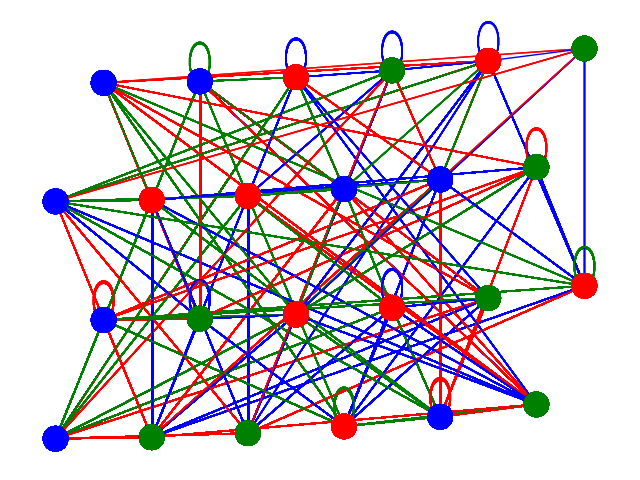
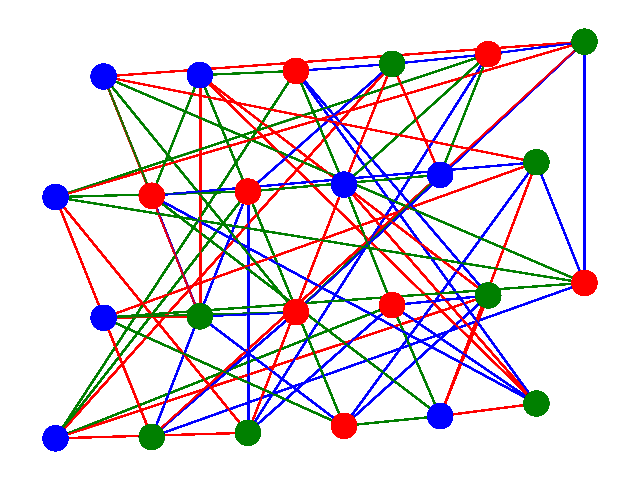
dualgraph generation works perfectly now, except for dual node position property

Changed region(s): [[0.0625, 0.0312, 0.9375, 0.9062], [0.1875, 0.9062, 0.2188, 0.9375]]

diff --git a/conceptTinkering/colorcode/hextorusdual.py b/conceptTinkering/colorcode/hextorusdual.py
@@ -6,6 +6,7 @@ from threecolorize import make_a_base_graph
 import numpy as np
 import random
 from typing import List, FrozenSet
+import time
 
 def triang_three_colored_graph(m,n):
     """
@@ -46,10 +47,12 @@ def draw_graph_with_colored_edges_and_nodes(G, file=None, name=None):
     plt.figure()
     if name:
         plt.title(name)
-    nx.draw(G, pos, with_labels=True, node_color=node_colors, edge_color=edge_colors)
+    if pos: 
+        nx.draw(G, pos, with_labels=True, node_color=node_colors, edge_color=edge_colors)
+    elif not pos:
+        nx.draw(G, with_labels=True, node_color=node_colors, edge_color=edge_colors)
     if nx.get_edge_attributes(G,"fault_ids"):
         nx.draw_networkx_edge_labels(G, pos, edge_labels=nx.get_edge_attributes(G, "fault_ids"))
-    
     if file:
         plt.savefig(file)
     else:
@@ -154,6 +157,7 @@ def find_face_color(graph: nx.Graph, face: FrozenSet) -> str:
             if node2 in graph.neighbors(node):
                 boundary_colors.add(graph[node][node2]['color'])
     face_color = rgb - boundary_colors
+    face_color = face_color.pop()
     return face_color
         
 
@@ -169,55 +173,40 @@ def dual_of_three_colored_graph(graph: nx.Graph) -> nx.Graph:
     # init nodes
     for i, face in enumerate(faces):
         dual_graph.add_node(i, color = 'black')
-        dual_graph.nodes[i]['color'] = find_face_color(graph,face)
-    # prepare node colors
-    node_colors = [data['color'] for _, data in dual_graph.nodes(data=True)] 
-    for i in range(len(node_colors)):
-        if node_colors[i]:
-            node_colors[i] = node_colors[i].pop()
+        color_of_face = find_face_color(graph, face)
+        dual_graph.nodes[i]['color'] = color_of_face
+        #### just to check things and visualize them
+        # for node in face:
+        #     graph.nodes[node]['color'] = color_of_face
+        # draw_graph_with_colored_edges_and_nodes(graph, "img/hexcolor/testloops.png")
+        # for node in face:
+        #     graph.nodes[node]['color'] = 'black'
     # connect nodes
     for i, face in enumerate(faces):
-        otherfaces = faces[:i]+faces[((i+1)%(len(faces))):]
+        otherfaces = faces[:i]+faces[((i+1)%(len(faces)+1)):]
         for j, face2 in enumerate(otherfaces):
             lap_nodes = set(face & face2)
-            print(lap_nodes)
+            # print(f"comparing face:\n {face} \n and face2: \n {face2}.\n The overlap is:\n{lap_nodes}")
             if lap_nodes:
                 # A three-colorable graph will only ever have two nodes between two faces
                 node1 = lap_nodes.pop()
                 node2 = lap_nodes.pop()
                 connecting_color = graph[node1][node2]['color']
-                dual_graph.add_edge(i,j, color = connecting_color)
+                # we are iterating not over the list of faces, but over the list of otherfaces
+                # what is j?
+                second_face_pos = [k for k in range(len(faces)) if faces[k] == otherfaces[j]].pop()
+                #
+                dual_graph.add_edge(i,second_face_pos, color = connecting_color)
                 
-                edge_colors = [dual_graph[u][v]['color'] for u, v in dual_graph.edges()]
-                nx.draw(dual_graph, pos = pos, node_color=node_colors, edge_color=edge_colors)
-                plt.savefig("img/hexcolor/bla.png")
-
-
+    
     return dual_graph
-
 
 def main():
     origG = make_a_base_graph()
-    # draw_graph_with_colored_edges_and_nodes(origG, "img/hexcolor/original.png")
+    draw_graph_with_colored_edges_and_nodes(triang_three_colored_graph(4,6), "img/hexcolor/triangshould.png")
     dual = dual_of_three_colored_graph(origG)
-    # draw_graph_with_colored_edges_and_nodes(dual, "img/hexcolor/dual.png")
-    # node_colors = [data['color'] for _, data in dual.nodes(data=True)] 
-    plt.figure()
-    pos = nx.spring_layout(dual)
-    node_colors = [data['color'] for _, data in dual.nodes(data=True)] 
-    for i in range(len(node_colors)):
-        node_colors[i] = node_colors[i].pop()
-    edge_colors = [dual[u][v]['color'] for u, v in dual.edges()]
-    nx.draw(dual, pos=pos, node_color=node_colors, edge_color=edge_colors)
-    plt.savefig("img/hexcolor/dual.png")
-    # dual_of_three_colored_graph(origG)
-    # G = triang_three_colored_graph(4,6)
-    # subr = subtile(G, "r")
-    # subr = relabel_graph(subr)
-    # subr = gen_error_for_subgraph(subr)
-    # syndrome = gen_syndrome_from_subgraph_error(subr, want_array=True)
-    # print(syndrome)
-    # decode_subgraph(subr, syndrome)
-        
+    ########## visualizing part
+    draw_graph_with_colored_edges_and_nodes(dual, "img/hexcolor/dual.png")
+ 
 if __name__ == "__main__":
     main()
